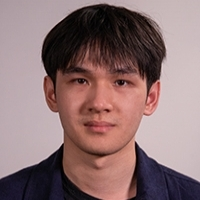
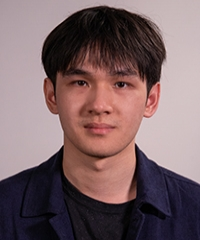
[UPDATE]

diff --git a/index.html b/index.html
@@ -124,9 +124,6 @@
                 <p>- Lycée Dorian (Bac)</p>
               </div>
             </div> -->
-
-
-
           </div>
 
 
@@ -181,17 +178,15 @@
           <div class="competence">
             <ul>
               <li><b>Langage</b> : C, C++, C#, python, HTML, CSS, Javascript, Typescript, Unix shell, PHP</li>
-              <li><b>BDD</b> : MYSQL, SQL, PHPMyAdmin</li>
+              <li><b>BDD</b> : MYSQL, SQL, PHPMyAdmin, NodeJs</li>
               <li><b>Systèmes</b> : Linux, Windows, Debian</li>
               <li><b>Frameworks</b> : Qt creator, React js, Bootstrap, Firebase, Laravel </li>
-              <li><b>Outils</b> : Wampserver, PhotoShop, Paint, WPS Office, Processing, Blender 3D, Unity, VScode,
-                Codeblocks, Git</li>
+              <li><b>Outils</b> : Wampserver, XAMPP, PhotoShop, Paint, WPS Office, Processing, Blender 3D, Unity,
+                VScode, Codeblocks, Git
+              </li>
             </ul>
           </div>
-
         </div>
-
-
       </div>
     </div>
   </main>

diff --git a/style.css b/style.css
@@ -52,10 +52,8 @@ header {
 }
 
 .photo img {
-
-    width: 175px;
-    border-radius: 50%;
-
+    width: 150px;
+    border-radius: 10px;
 }
 
 .container {
